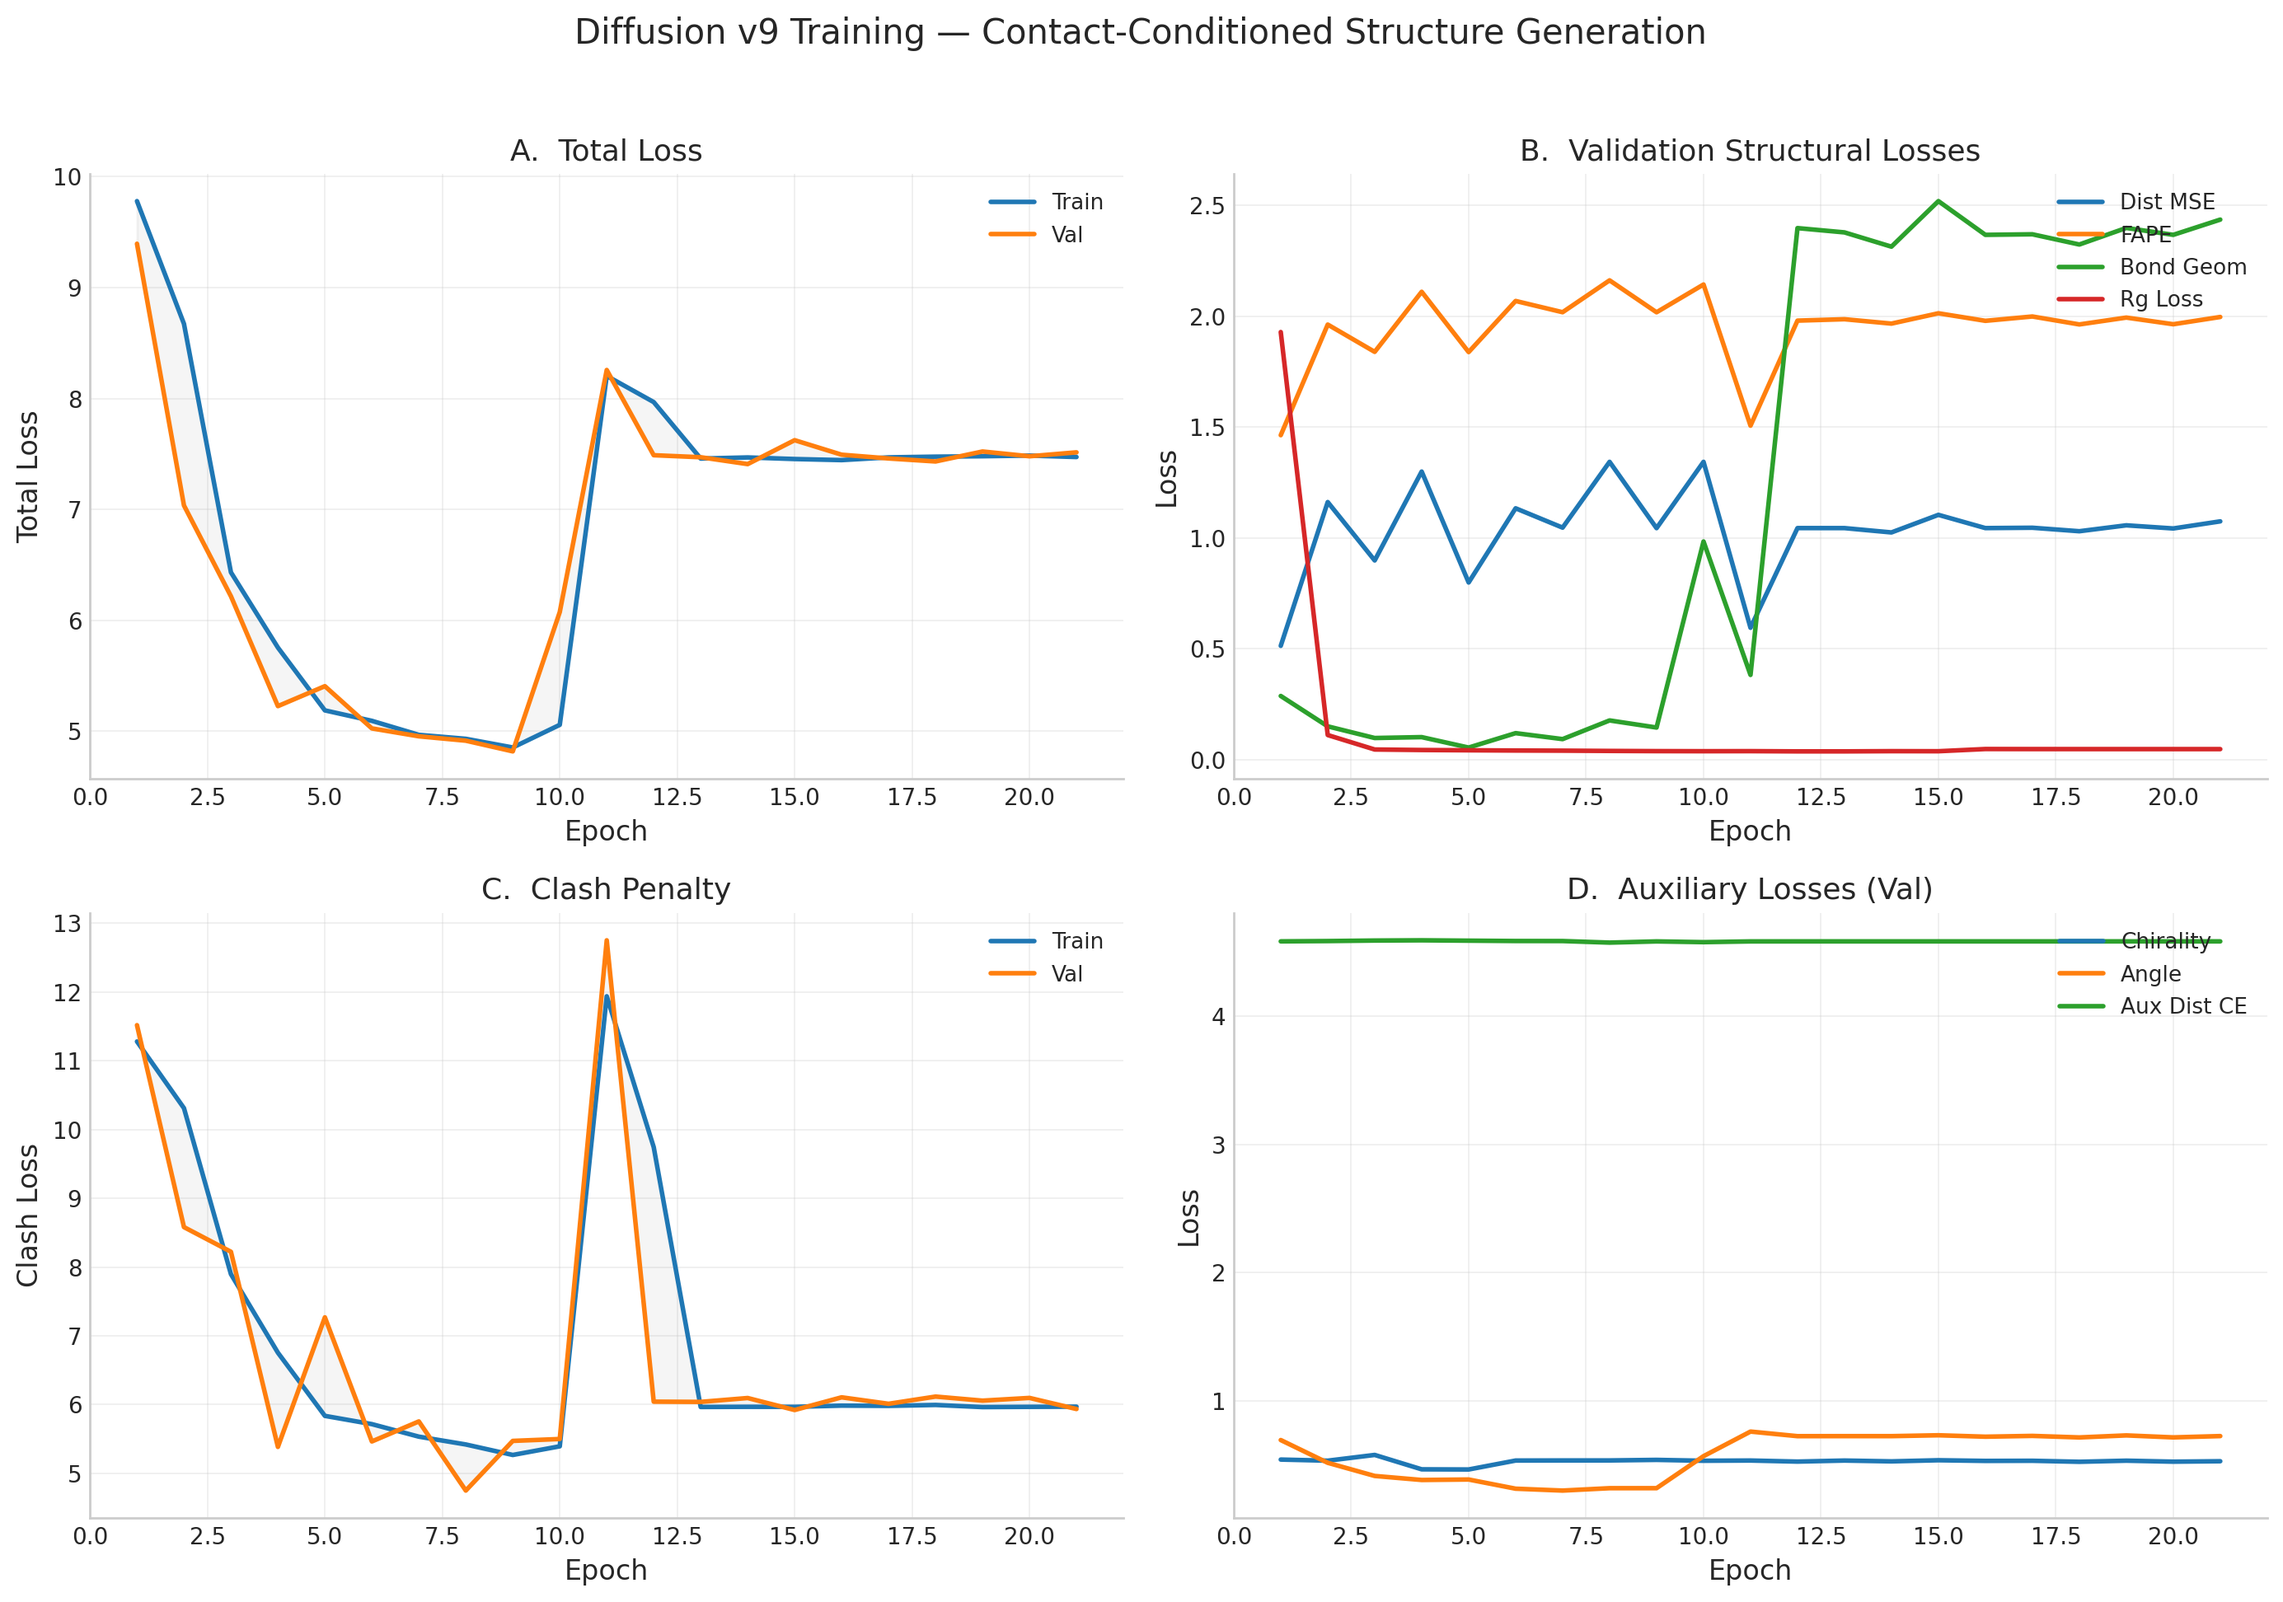
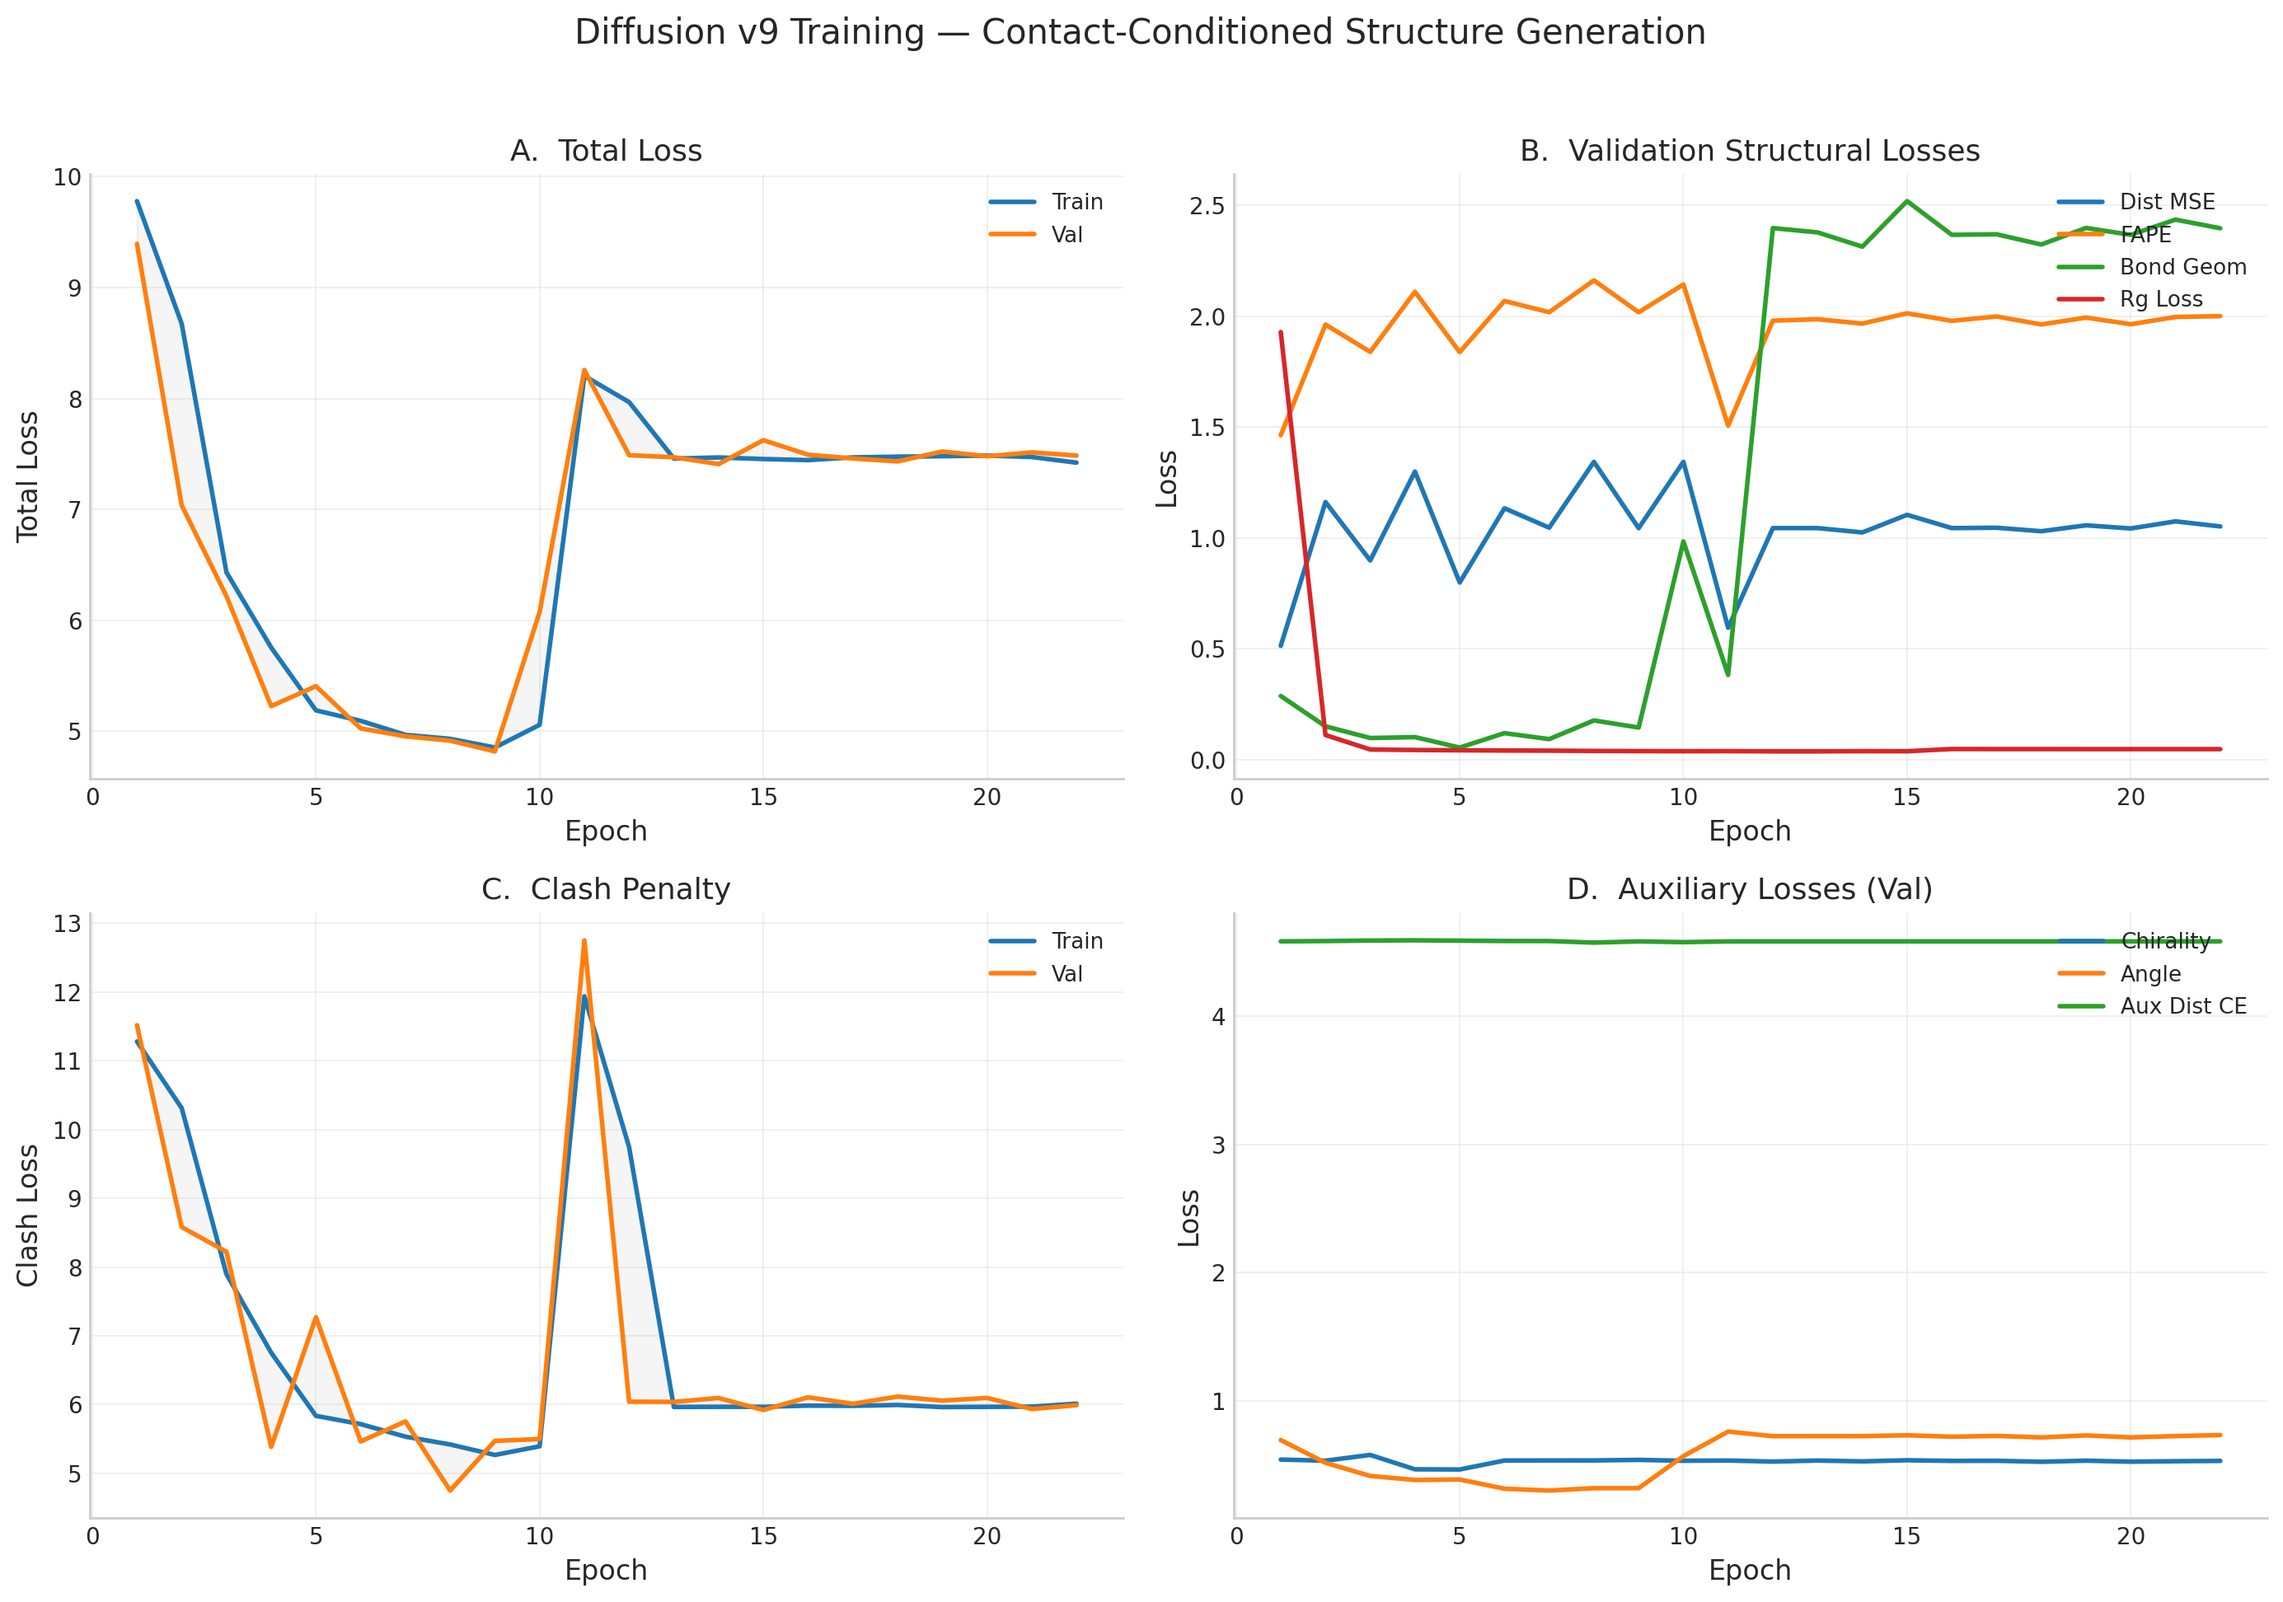
Update v9 training through E22 (pat 13/15)

diff --git a/index.html b/index.html
@@ -1423,29 +1423,40 @@
                 <td>&mdash;</td>
                 <td><span class="tag tag-pat">pat 12</span></td>
               </tr>
+              <tr>
+                <td>22</td>
+                <td>7.486</td>
+                <td>1.051</td>
+                <td>2.000</td>
+                <td>0.047</td>
+                <td>2.396</td>
+                <td>&mdash;</td>
+                <td>&mdash;</td>
+                <td><span class="tag tag-pat">pat 13</span></td>
+              </tr>
             </tbody>
           </table>
         </div>
 
-        <h4 class="training-progress-heading">Loss Curves (through Epoch 21)</h4>
+        <h4 class="training-progress-heading">Loss Curves (through Epoch 22)</h4>
         <div style="text-align: center; margin: 16px 0;">
           <img src="data/training/v9_loss_curves.png" alt="V9 diffusion training loss curves" style="max-width: 100%; border-radius: 6px; border: 1px solid var(--border);">
         </div>
 
         <div class="training-observations">
-          <h4>Training Progress (Epochs 1&ndash;21)</h4>
+          <h4>Training Progress (Epochs 1&ndash;22)</h4>
           <ul>
             <li>Best val total loss: 4.82 at epoch 9 (49% reduction from E1). Training hit an instability at E10&ndash;11, where bond geometry and clash penalties spiked catastrophically.</li>
             <li>Instability pattern: clash loss dropped to 5.3 (E10) then spiked to 12.8 (E11, worse than E1). Bond geometry jumped from 0.14 to 2.4. The model briefly over-optimized local distance metrics at the cost of geometric validity.</li>
             <li>Recovery failed: E12&ndash;21 show val loss locked at ~7.4&ndash;7.5 (vs best 4.82 at E9). The cosine LR schedule decayed to 1e-6, leaving no learning capacity to escape the loss plateau.</li>
             <li>DDIM at E5: TM=0.041 (best); E10: TM=0.010; E15: TM=0.010; E20: TM=0.012 &mdash; generated structures remain unfolded noise throughout. The denoiser never learned coherent backbone generation.</li>
-            <li>Currently at E21, patience 12/15. Early stopping expected at E24. Best weights from E9 are preserved.</li>
+            <li>Currently at E22, patience 13/15. Early stopping expected at E24. Best weights from E9 are preserved.</li>
             <li>Running on NVIDIA A40 (47.6 GB) on savio3 &mdash; ~15 min/epoch with auto-resume and SLURM signal traps.</li>
           </ul>
         </div>
 
         <div class="training-pending-note">
-          Training on single A40 GPU (savio3). Patience 12/15 &mdash; early stopping expected at epoch 24. Best model saved at epoch 9 (val=4.82). The model never recovered from the E10 instability. DDIM sampling produces unfolded structures (TM~0.01), indicating the denoiser has not learned coherent backbone generation at this scale.
+          Training on single A40 GPU (savio3). Patience 13/15 &mdash; early stopping expected at epoch 24. Best model saved at epoch 9 (val=4.82). The model never recovered from the E10 instability. DDIM sampling produces unfolded structures (TM~0.01), indicating the denoiser has not learned coherent backbone generation at this scale.
         </div>
       </div>
 
